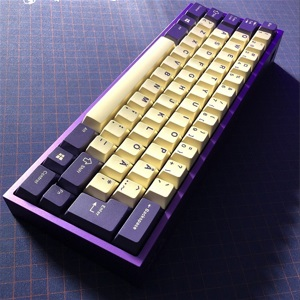
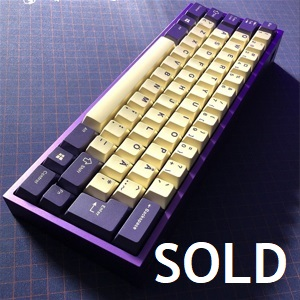
klippe sold

Changed region(s): [[0.51, 0.78, 0.96, 0.96]]

diff --git a/index.html b/index.html
@@ -306,26 +306,6 @@ Furthermore do they have three leds between numlock and backspace for caps lock,
 						</a>
 					</li>
 					<li>
-						<a href="klippe.html" data-largesrc="assets/images/klippe/0.jpg" data-title="Purple Klippe" data-description=
-						"
-						<b>Board: </b>Mekanisk Klippe R1, purple</br>
-						<b>Layout: </b>60%</br>
-						<b>Mount: </b>Tray</br>
-						<b>Plate: </b>Brass</br>
-						<b>PCB: </b>Sentraq S-60X</br>
-						<b>Switches: </b>Retooled Cheery Blacks lubed with Tribosys 3204, switch filmed and 68gr SPRiT springs</br>
-						<b>Keycaps: </b>GMK Plum</br>
-						<b>Aquired: </b>February 2019</br></br>
-						<b>Additional information:</b></br>
-The keyboard sounds and feels very nice and althought I am not a super fan of the 60% layout it’s a very nice typing experience, and it looks stunning.
-The sound is deep, muted and has a nice thocc to it, but since it’s a tray-mounted PCB it’s a bit inconsistent due to the unevenly spread mounting points.
-There’s some very small o-rings between the stand-offs and PCB to further reduce the vibrations. Paired with the purple deskmat it is really a purple overdose.
-						"
-						>
-							<img src="images/klippe.jpg" alt="klippe" width="300"/>
-						</a>
-					</li>
-					<li>
 						<a href="preonicrev3.html" data-largesrc="assets/images/preonic/3.jpg" data-title="Preonic Rev3" data-description=
 						"
 						<b>Board: </b>OLKB Preonic Rev3 in orange High Profile case</br>
@@ -492,6 +472,11 @@ It's a good little artisan-holder atleast. No additional pictures in gallery.
 					<li>
 						<a href="melody96.html" data-title="melody96" data-description=>
 							<img src="images/melody96.jpg" alt="melody96" width="300"/>
+						</a>
+					</li>
+					<li>
+						<a href="klippe.html" data-title="Purple Klippe" data-description=>
+							<img src="images/klippe.jpg" alt="Purple Klippe" width="300"/>
 						</a>
 					</li>
 				</ul>
